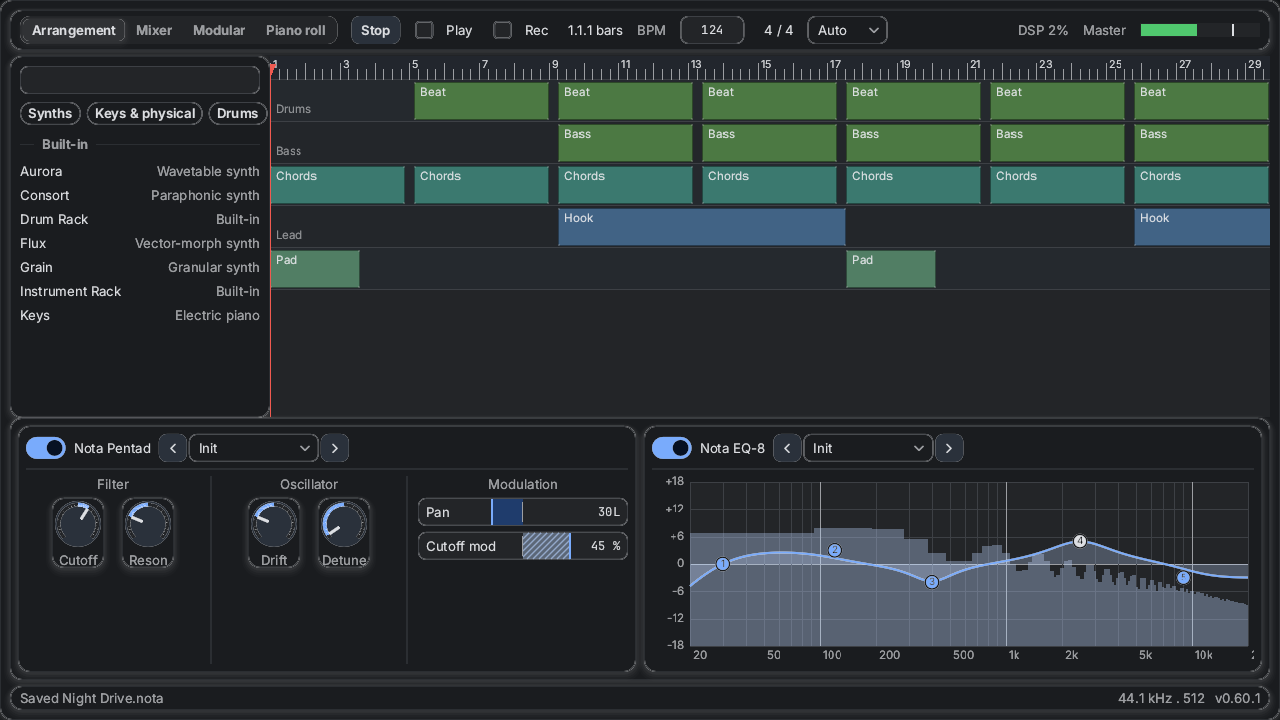
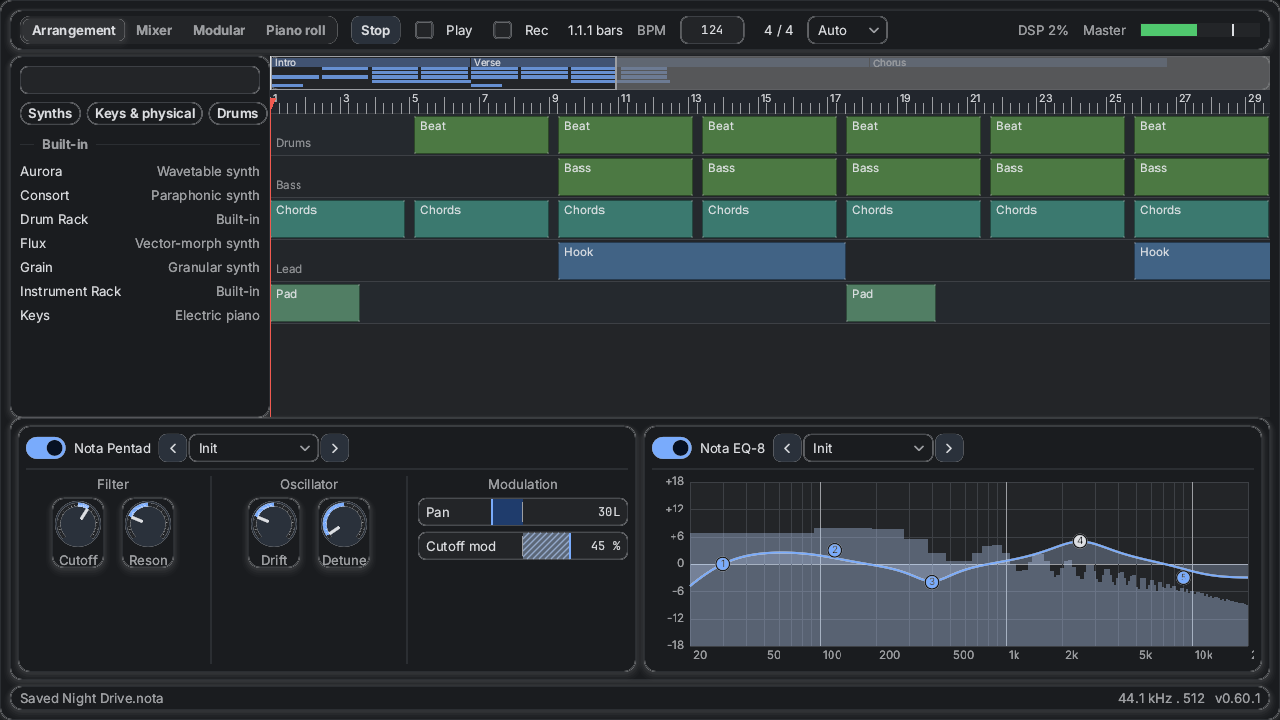
ui: UiOverview, the arrangement overview strip (clip blocks, sections, draggable window); nota arrangement uses it
Claude-Session: https://claude.ai/code/session_01VmEee8L8hufaEg5kRznT4c

Changed region(s): [[0.1875, 0.0611, 1.0, 0.4583]]

diff --git a/ui/README.md b/ui/README.md
@@ -126,6 +126,8 @@ Small controls (`widgets_pads.odin`): `UiRangeSlider` (two handles that never cr
 
 Picker (`picker.odin`): `UiPicker` is a searchable list popup, the parameter picker under an anchor rectangle or a command palette over the dimmed window when there is none; words match the name or the detail, best first, arrows and Enter or a click pick, Escape or a click outside closes. Buffers for the query and the matches are the program's. Limits: 128 matches, 10 rows in view, no fuzzy matching of apart letters, no headings between rows, an anchored list does not flip above.
 
+Overview strip (`overview.odin`): `UiOverview` shows the whole arrangement in a thin bar (a block for every clip in the row of its track, sections as a named band, the playhead) with the window of the `TimelineView` as a frame: drag it to scroll, drag its edges to zoom, press outside to centre it. Limits: sections are shown, not edited (no drag to mark one), no vertical scroll of the tracks, clips are plain blocks.
+
 Soft edges: `aa.odin` makes anti-aliased rounded rectangles, rings, discs, lines of any width with round/square/butt ends and mitered joins, and Bezier curves as triangle lists whose edge vertices fade over one pixel (the fringe of NanoVG), written to a storage of yours (`AaMesh`). No shader and no texture: the glue draws the triangles with a color per vertex, in the batch that is open, so a window of soft shapes stays one draw call with its rectangles and text. `ui_default.FillRounded`, `RingRounded`, `Line`, graph cables and ports use it by themselves when the painter has a mesh (`glue_karl2d`, `glue_raylib`, `kit` do); for your own drawing: `ui_default.Polyline`, `Bezier`, `RouteLine`, `Disc`, `PolygonSmooth`. Notes and limits: `docs/ANTI_ALIASING.md`; the `smooth` demo shows them next to the plain shapes.
 
 ## The look: themes, fonts, icons

diff --git a/ui/AGENTS.md b/ui/AGENTS.md
@@ -47,3 +47,4 @@ What is not obvious from the code of this library. The rules that hold for every
 - `widgets_device.odin`: `UiPresetSelector`, `UiDeviceCard` (deferred end closes the body row and the panel; the proc returns false while folded), `UiDeviceSection`, `UiTrackHeader` are compositions: ids of the parts are `"##on"`, `"##preset"` (`"##prev"`, `"##list"`, `"##next"` inside), `"##fold"`, `"##close"` under the card id, `"M##m"`, `"S##s"`, `"R##r"`, `"##volume"`, `"##pan"`, `"##input"` under the track id. Tests at the bottom of `ui_test.odin`; demo `chain`; the nota device strip uses the cards.
 - `widgets_pads.odin` (+ `default_style/pads.odin`): six small widgets, each its own style kind (`RANGE_SLIDER`, `XY_PAD`, `WHEEL`, `SCROLL_BAR_THIN`, `KEYBOARD`, `STEP_GRID`; what a kind reads from `DrawInfo` is in the comment at its entry in `style.odin`). Pointer arithmetic is pure (`KeyboardKeyRect/At`, `StepGridCellAt`, `ScrollBarThumb`). The step grid paints the line of cells between two frames of a fast drag. Demo `pads`.
 - `picker.odin`: `UiPicker` (parameter picker and command palette), `PickerFilter` scoring is pure and tested; rows reuse the `DROPDOWN_ITEM` kind, so no style proc of its own. Its field id is `IdFromString("##query", panel id)`. Demo: chain ("Modulate...").
+- `overview.odin` (+ `default_style/overview.odin`, kind `OVERVIEW`): `Overview` is kept by the program (timeline, view, total, sections; the style reads it through `DrawInfo.user`). Only `view.origin` and `view.zoom` change; the window width is `view.rect.z` of the last drawn timeline. Used in the nota arrangement.

diff --git a/ui/docs/NOTA_GAP.md b/ui/docs/NOTA_GAP.md
@@ -47,7 +47,7 @@ The demo `nota` (`demo_common/demo_nota.odin`) recreates four screens (arrangeme
 | ~~Step / pattern grid~~ done: `UiStepGrid` (paint by drag, playhead column, beat shading). Left: per step lengths, ratchets | `DrumPatternView`, `ArpGrid`, `RhythmViews` | | done |
 | ~~Piano keyboard~~ done: `UiKeyboard` (lit notes, root marked, press and glide send note on / off). Left: velocity by press height | `ChordKeysViz`, `KeysViews` | | done |
 | Modulation matrix (sources x targets, amount per cell) | `VoltMatrix` | `UiTable` | low |
-| Arrangement **overview** strip and sections ruler (bar numbers, drag to mark a section) | `ArrangementView.Overview`, `.Sections` | `UiTimeline` ruler (seconds, not bars), minimap of the graph | medium |
+| ~~Arrangement overview strip~~ done: `UiOverview` (clip blocks, sections band, draggable and zoomable window; used in the nota arrangement). Left: marking sections by drag | `ArrangementView.Overview`, `.Sections` | | done |
 | ~~Bars and beats on the ruler, grid snap choices~~ done: `TimelineView.tempo` turns the ruler into bars and beats, `TimelineSnapChoice` (off, bar, 1/4 .. 1/32, auto). Left: tempo map, triplets | `ArrangementView.TimeAxis`, `SnapChip` | | done |
 | Clip body drawing: notes as dashes, waveform, drum steps inside a clip | `ArrangementView` clips | clip with a title | medium |
 | Node graph nodes with an on/off switch in the header, CV ports (diamond), edge colours by signal kind, a minimap | `ModularView` | `UiGraph` (round pins, no header widgets) | medium |

diff --git a/ui/TODO.md b/ui/TODO.md
@@ -159,5 +159,5 @@ Tick an item when it is done and verified (tests pass, committed).
 - [x] Frequency response graph with draggable band nodes (log frequency axis, dB axis) and a spectrum fill; waveform view with zoom and markers
 - [x] Mixer fader with a dB scale and a stereo meter; bars and beats on the timeline ruler with grid snap choices
 - [x] Device card (header with switch and preset selector with arrows, tabs, sections divided by rules) and track header row (colour strip, M / S / R, value bar, pan, input)
-- [ ] (medium) Arrangement overview strip (parameter picker and command palette are done: `picker.odin`; range slider, XY pad, wheel, thin scroll bar, step grid and keyboard are done: `widgets_pads.odin`)
+- [x] (medium) Arrangement overview strip, `overview.odin` (sections are shown, not edited; parameter picker and command palette are done: `picker.odin`; range slider, XY pad, wheel, thin scroll bar, step grid and keyboard are done: `widgets_pads.odin`)
 - [ ] (low) Key and scale picker, modulation matrix, history view, welcome / about / preferences windows, skins with fonts
